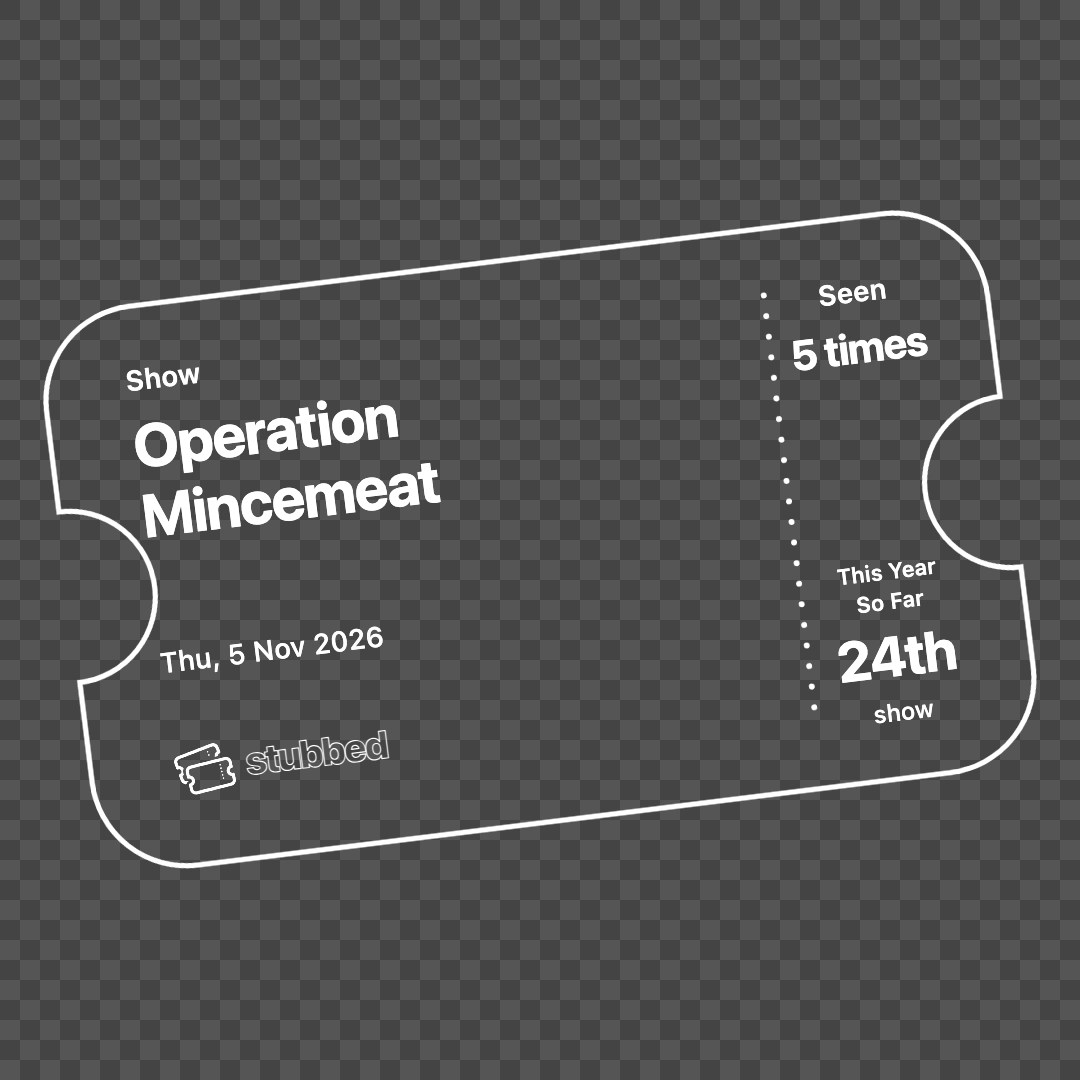
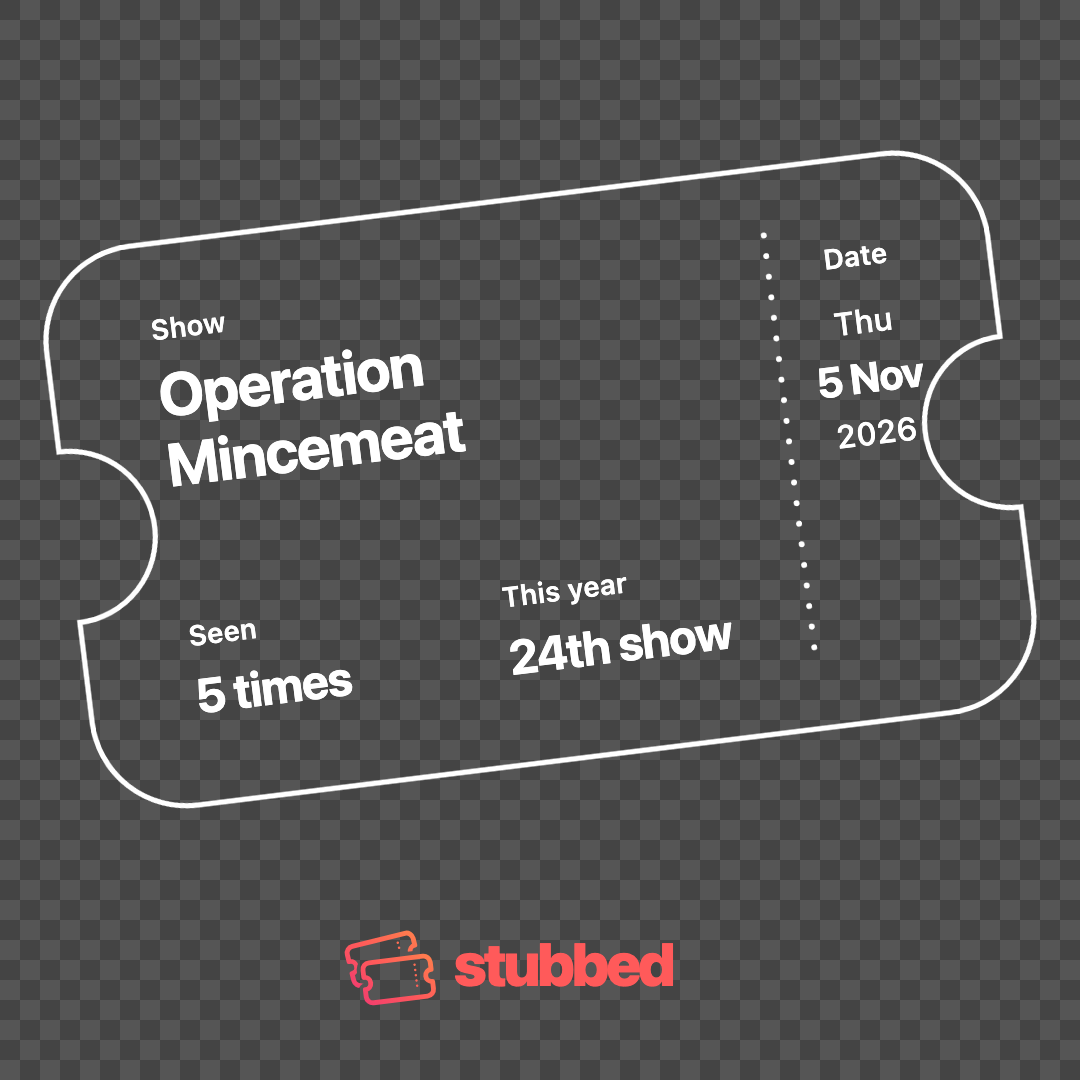
Balance story sections and use design system outline branding

diff --git a/apps/ios/Stubbed/Screens/Share/EntryCard.swift b/apps/ios/Stubbed/Screens/Share/EntryCard.swift
@@ -135,7 +135,7 @@ struct EntryCardView: View {
   }
 }
 
-/// A narrow, centred stack with no personal handle or route graphic.
+/// Four equally sized sections, followed by the design system's outline icon.
 private struct ShowOverlayCard: View {
   let data: EntryCardData
   let ink: Color
@@ -143,28 +143,28 @@ private struct ShowOverlayCard: View {
 
   var body: some View {
     ZStack(alignment: .top) {
-      group("Show", value: data.title, top: 60, title: true)
-      group("Seen", value: "\(data.timesSeen) \(data.timesSeen == 1 ? "time" : "times")", top: 192)
-      group(data.year == Calendar.current.component(.year, from: today) ? "This Year So Far" : "\(data.year) So Far",
-        value: "\(ordinal(data.showOfYear)) show", top: 294)
-      Text(today, format: .dateTime.weekday(.abbreviated).day().month(.abbreviated).year())
-        .font(.system(size: 17, weight: .medium)).padding(.top, 406)
-      OutlineCardLogo(ink: ink).padding(.top, 462)
+      VStack(spacing: 16) {
+        section("Show", value: data.title, title: true)
+        section("Date", value: today.formatted(.dateTime.weekday(.abbreviated).day().month(.abbreviated).year().locale(Locale(identifier: "en_GB"))))
+        section("Seen", value: "\(data.timesSeen) \(data.timesSeen == 1 ? "time" : "times")")
+        section(data.year == Calendar.current.component(.year, from: today) ? "This year" : String(data.year),
+          value: "\(ordinal(data.showOfYear)) show")
+      }.padding(.top, 30)
+      Image("BrandMarkOutline").renderingMode(.original).resizable().scaledToFit()
+        .frame(width: 58, height: 58 * 673 / 816).padding(.top, 470)
     }
     .foregroundStyle(ink)
     .frame(width: 540, height: 540, alignment: .top)
-    .environment(\.locale, Locale(identifier: "en_GB"))
   }
 
-  private func group(_ label: String, value: String, top: CGFloat, title: Bool = false) -> some View {
+  private func section(_ label: String, value: String, title: Bool = false) -> some View {
     VStack(spacing: 6) {
       Text(label).font(.system(size: 17, weight: .semibold))
       Text(value).font(.system(size: 36, weight: .bold)).tracking(-0.5)
         .lineLimit(title ? 2 : 1).minimumScaleFactor(0.72)
         .multilineTextAlignment(.center)
-    }.frame(width: 360).padding(.top, top)
+    }.frame(width: 400, height: 96, alignment: .top)
   }
-
 }
 
 private struct TicketOverlayCard: View {
@@ -173,56 +173,49 @@ private struct TicketOverlayCard: View {
   private let today = Date()
 
   var body: some View {
-    ZStack(alignment: .topLeading) {
-      Image("ShareTicketOutline").renderingMode(.template).resizable()
-        .frame(width: 480, height: 480 * 388 / 648)
-      VStack(alignment: .leading, spacing: 6) {
-        Text("Show").font(.system(size: 14, weight: .semibold))
-        Text(data.title).font(.system(size: 30, weight: .bold)).tracking(-0.4)
-          .lineLimit(2).minimumScaleFactor(0.73)
-          .fixedSize(horizontal: false, vertical: true)
-      }.frame(width: 276, alignment: .leading).offset(x: 44, y: 34)
-      Text(today, format: .dateTime.weekday(.abbreviated).day().month(.abbreviated).year())
-        .font(.system(size: 14, weight: .medium)).offset(x: 44, y: 176)
-      OutlineCardLogo(ink: ink).scaleEffect(0.65, anchor: .topLeading).offset(x: 44, y: 224)
-      VStack(spacing: 6) {
-        Text("Seen").font(.system(size: 14, weight: .semibold))
-        Text("\(data.timesSeen) \(data.timesSeen == 1 ? "time" : "times")")
-          .font(.system(size: 21, weight: .bold)).tracking(-0.3)
-          .lineLimit(1).minimumScaleFactor(0.65)
-      }.frame(width: 82).offset(x: 369, y: 34)
-      VStack(spacing: 3) {
-        Text(data.year == Calendar.current.component(.year, from: today) ? "This Year" : String(data.year))
-        Text("So Far")
-        Text(ordinal(data.showOfYear)).font(.system(size: 28, weight: .bold))
-          .tracking(-0.3).lineLimit(1).minimumScaleFactor(0.65).padding(.top, 8)
-        Text("show").font(.system(size: 12, weight: .medium))
-      }.font(.system(size: 11, weight: .semibold)).frame(width: 82).offset(x: 369, y: 176)
+    ZStack(alignment: .top) {
+      ZStack(alignment: .topLeading) {
+        Image("ShareTicketOutline").renderingMode(.template).resizable()
+          .frame(width: 480, height: 480 * 388 / 648)
+        VStack(alignment: .leading, spacing: 6) {
+          Text("Show").font(.system(size: 14, weight: .semibold))
+          Text(data.title).font(.system(size: 30, weight: .bold)).tracking(-0.4)
+            .lineLimit(2).minimumScaleFactor(0.73)
+            .fixedSize(horizontal: false, vertical: true)
+        }.frame(width: 268, alignment: .leading).offset(x: 56, y: 40)
+        stat("Seen", value: "\(data.timesSeen) \(data.timesSeen == 1 ? "time" : "times")", width: 124)
+          .offset(x: 56, y: 194)
+        stat(data.year == Calendar.current.component(.year, from: today) ? "This year" : String(data.year),
+          value: "\(ordinal(data.showOfYear)) show", width: 112).offset(x: 214, y: 194)
+        VStack(spacing: 10) {
+          Text("Date").font(.system(size: 14, weight: .semibold)).padding(.bottom, 4)
+          Text(today, format: .dateTime.weekday(.abbreviated)).font(.system(size: 16, weight: .medium))
+          Text(today, format: .dateTime.day().month(.abbreviated))
+            .font(.system(size: 21, weight: .bold)).tracking(-0.3).lineLimit(1).minimumScaleFactor(0.65)
+          Text(today, format: .dateTime.year()).font(.system(size: 16, weight: .medium))
+        }.frame(width: 82).offset(x: 369, y: 46)
+      }
+      .foregroundStyle(ink)
+      .frame(width: 480, height: 480 * 388 / 648)
+      .rotationEffect(.degrees(-7))
+      .padding(.top, 96)
+      HStack(spacing: 8) {
+        Image("BrandMarkOutline").renderingMode(.original).resizable().scaledToFit()
+          .frame(width: 48, height: 48 * 673 / 816)
+        Text("stubbed").font(.system(size: 30, weight: .heavy)).tracking(-1.35)
+          .foregroundStyle(CardInk.coral)
+      }.padding(.top, 464)
     }
-    .foregroundStyle(ink)
-    .frame(width: 480, height: 480 * 388 / 648)
-    .rotationEffect(.degrees(-7)) // Same angle as the logo's front ticket.
+    .frame(width: 540, height: 540, alignment: .top)
     .environment(\.locale, Locale(identifier: "en_GB"))
   }
-}
 
-private struct OutlineCardLogo: View {
-  let ink: Color
-  var body: some View {
-    HStack(spacing: 8) {
-      Image("BrandMarkOutline").renderingMode(.template).resizable().scaledToFit()
-        .frame(width: 48, height: 40)
-      Image(uiImage: outlineWordmark).resizable().frame(width: 142, height: 40)
-    }.foregroundStyle(ink)
-  }
-
-  private var outlineWordmark: UIImage {
-    UIGraphicsImageRenderer(size: CGSize(width: 142, height: 40)).image { _ in
-      ("stubbed" as NSString).draw(at: CGPoint(x: 1, y: 2), withAttributes: [
-        .font: UIFont.systemFont(ofSize: 30, weight: .heavy), .kern: -1.35,
-        .strokeColor: UIColor(ink), .strokeWidth: 3,
-      ])
-    }
+  private func stat(_ label: String, value: String, width: CGFloat) -> some View {
+    VStack(alignment: .leading, spacing: 6) {
+      Text(label).font(.system(size: 14, weight: .semibold))
+      Text(value).font(.system(size: 24, weight: .bold)).tracking(-0.3)
+        .lineLimit(1).minimumScaleFactor(0.65)
+    }.frame(width: width, alignment: .leading)
   }
 }
 

diff --git a/apps/web/src/lib/share-card.ts b/apps/web/src/lib/share-card.ts
@@ -258,64 +258,44 @@ export async function renderCard(
 // A compact stack people can place over their own story photo. The year
 // ordinal is the selected visit's position, including for older diary entries.
 function drawShowOverlay(ctx: Ctx, data: CardData, color: string, mark: HTMLImageElement | null) {
-  ctx.fillStyle = color;
-  ctx.textAlign = "center";
-  ctx.textBaseline = "top";
-  const label = (text: string, y: number) => {
-    setFont(ctx, 600, 17, TEXT, 0);
-    ctx.fillText(text, 270, y);
-  };
-  const value = (text: string, y: number) => {
-    setFont(ctx, 700, 36, DISPLAY, -0.5);
-    ctx.fillText(fit(ctx, text, 360), 270, y);
-  };
-  label("Show", 60);
-  let size = 36;
-  let lines: string[] = [];
-  for (; size >= 26; size -= 2) {
-    setFont(ctx, 700, size, DISPLAY, -0.5);
-    lines = wrap(ctx, data.title, 360);
-    if (lines.length <= 2) break;
-  }
-  if (lines.length > 2) lines = [lines[0], lines.slice(1).join(" ")];
-  lines.forEach((line, i) => ctx.fillText(fit(ctx, line, 360), 270, 86 + i * 40));
-  label("Seen", 192);
-  value(`${data.timesSeen} ${data.timesSeen === 1 ? "time" : "times"}`, 218);
   const today = new Date();
-  label(data.year === today.getFullYear() ? "This Year So Far" : `${data.year} So Far`, 294);
-  value(`${ordinal(data.showOfYear)} show`, 320);
-  setFont(ctx, 500, 17, TEXT, 0);
-  ctx.fillText(new Intl.DateTimeFormat("en-GB", { weekday: "short", day: "numeric", month: "short", year: "numeric" }).format(today), 270, 406);
-
-  drawOutlineLogo(ctx, color, mark);
+  const sections = [
+    { label: "Show", value: data.title },
+    { label: "Date", value: shareDate(today) },
+    { label: "Seen", value: `${data.timesSeen} ${data.timesSeen === 1 ? "time" : "times"}` },
+    { label: data.year === today.getFullYear() ? "This year" : String(data.year), value: `${ordinal(data.showOfYear)} show` },
+  ];
+  ctx.fillStyle = color; ctx.textAlign = "center"; ctx.textBaseline = "top";
+  sections.forEach((section, index) => {
+    const top = 30 + index * 112;
+    setFont(ctx, 600, 17, TEXT, 0); ctx.fillText(section.label, 270, top);
+    let lines: string[] = [];
+    for (let size = 36; size >= 26; size -= 2) {
+      setFont(ctx, 700, size, DISPLAY, -0.5);
+      lines = wrap(ctx, section.value, 400);
+      if (lines.length <= (index === 0 ? 2 : 1)) break;
+    }
+    if (lines.length > 2) lines = [lines[0], lines.slice(1).join(" ")];
+    lines.slice(0, index === 0 ? 2 : 1).forEach((line, i) => ctx.fillText(fit(ctx, line, 400), 270, top + 26 + i * 40));
+  });
+  // Use the design system's original gradient Outline mark, with no wordmark.
+  if (mark) ctx.drawImage(mark, 241, 470, 58, 58 * 673 / 816);
 }
 
-function drawOutlineLogo(ctx: Ctx, color: string, mark: HTMLImageElement | null) {
-  // Tint the existing outline asset; source-in keeps its interior transparent.
-  if (mark) {
-    const tint = document.createElement("canvas");
-    tint.width = 160; tint.height = 132;
-    const tintCtx = tint.getContext("2d");
-    if (tintCtx) {
-      tintCtx.drawImage(mark, 0, 0, 160, 132);
-      tintCtx.globalCompositeOperation = "source-in";
-      tintCtx.fillStyle = color;
-      tintCtx.fillRect(0, 0, 160, 132);
-      ctx.drawImage(tint, 171, 462, 48, 40);
-    }
-  }
+function shareDate(date: Date) {
+  return new Intl.DateTimeFormat("en-GB", { weekday: "short", day: "numeric", month: "short", year: "numeric" }).format(date);
+}
+
+function drawTicketBrand(ctx: Ctx, mark: HTMLImageElement | null) {
+  if (mark) ctx.drawImage(mark, 171, 464, 48, 48 * 673 / 816);
   setFont(ctx, 800, 30, DISPLAY, -1.35);
-  ctx.textAlign = "left";
-  ctx.textBaseline = "middle";
-  ctx.strokeStyle = color;
-  ctx.lineWidth = 0.9;
-  ctx.lineJoin = "round";
-  ctx.strokeText("stubbed", 227, 482);
+  ctx.textAlign = "left"; ctx.textBaseline = "middle";
+  ctx.fillStyle = CORAL; ctx.fillText("stubbed", 227, 484);
 }
 
 function drawTicketOverlay(ctx: Ctx, data: CardData, color: string, ticket: HTMLImageElement | null, mark: HTMLImageElement | null) {
   ctx.save();
-  ctx.translate(270, 270);
+  ctx.translate(270, 240);
   ctx.rotate(-7 * Math.PI / 180); // The front ticket's angle in the Stubbed logo.
   ctx.translate(-240, -144);
   if (ticket) {
@@ -330,31 +310,31 @@ function drawTicketOverlay(ctx: Ctx, data: CardData, color: string, ticket: HTML
     }
   }
   ctx.fillStyle = color; ctx.textAlign = "left"; ctx.textBaseline = "top";
-  setFont(ctx, 600, 14, TEXT, 0); ctx.fillText("Show", 44, 34);
+  setFont(ctx, 600, 14, TEXT, 0); ctx.fillText("Show", 56, 40);
   let lines: string[] = [];
   for (let size = 30; size >= 22; size -= 2) {
     setFont(ctx, 700, size, DISPLAY, -0.4);
-    lines = wrap(ctx, data.title, 276);
+    lines = wrap(ctx, data.title, 268);
     if (lines.length <= 2) break;
   }
   if (lines.length > 2) lines = [lines[0], lines.slice(1).join(" ")];
-  lines.forEach((line, i) => ctx.fillText(fit(ctx, line, 276), 44, 60 + i * 35));
+  lines.forEach((line, i) => ctx.fillText(fit(ctx, line, 268), 56, 66 + i * 35));
   const today = new Date();
-  setFont(ctx, 500, 14, TEXT, 0);
-  ctx.fillText(new Intl.DateTimeFormat("en-GB", { weekday: "short", day: "numeric", month: "short", year: "numeric" }).format(today), 44, 176);
-  ctx.save(); ctx.translate(44, 224); ctx.scale(0.65, 0.65); ctx.translate(-171, -462);
-  drawOutlineLogo(ctx, color, mark); ctx.restore();
-  ctx.fillStyle = color; ctx.textAlign = "center"; ctx.textBaseline = "top";
-  setFont(ctx, 600, 14, TEXT, 0); ctx.fillText("Seen", 410, 34);
+  setFont(ctx, 600, 14, TEXT, 0);
+  ctx.fillText("Seen", 56, 194);
+  ctx.fillText(data.year === today.getFullYear() ? "This year" : String(data.year), 214, 194);
+  setFont(ctx, 700, 24, DISPLAY, -0.3);
+  ctx.fillText(`${data.timesSeen} ${data.timesSeen === 1 ? "time" : "times"}`, 56, 220, 124);
+  ctx.fillText(`${ordinal(data.showOfYear)} show`, 214, 220, 112);
+  ctx.textAlign = "center";
+  setFont(ctx, 600, 14, TEXT, 0); ctx.fillText("Date", 410, 46);
+  setFont(ctx, 500, 16, TEXT, 0);
+  ctx.fillText(new Intl.DateTimeFormat("en-GB", { weekday: "short" }).format(today), 410, 78);
   setFont(ctx, 700, 21, DISPLAY, -0.3);
-  ctx.fillText(`${data.timesSeen} ${data.timesSeen === 1 ? "time" : "times"}`, 410, 59, 82);
-  setFont(ctx, 600, 11, TEXT, 0);
-  ctx.fillText(data.year === today.getFullYear() ? "This Year" : String(data.year), 410, 176);
-  ctx.fillText("So Far", 410, 191);
-  setFont(ctx, 700, 28, DISPLAY, -0.3);
-  ctx.fillText(ordinal(data.showOfYear), 410, 211, 82);
-  setFont(ctx, 500, 12, TEXT, 0); ctx.fillText("show", 410, 246);
+  ctx.fillText(new Intl.DateTimeFormat("en-GB", { day: "numeric", month: "short" }).format(today), 410, 104, 82);
+  setFont(ctx, 500, 16, TEXT, 0); ctx.fillText(String(today.getFullYear()), 410, 134);
   ctx.restore();
+  drawTicketBrand(ctx, mark);
 }
 
 // --- helpers ---------------------------------------------------------------

diff --git a/docs/DECISIONS.md b/docs/DECISIONS.md
@@ -1024,3 +1024,5 @@ Owner couldn't edit all of two landing captions (the editor showed only half of 
 - Uses the existing entry-card stats; older entries name their recorded year rather than calling it “This Year”. Exports remain 1080×1080 PNGs, matching the sharing pipeline.
 
 - Added a Ticket stub variant with the same information: show title in the main ticket, counts in the perforated stub, and today’s date and outlined logo in the main ticket’s footer. The outline is generated from the logo’s exact single-ticket geometry and keeps its front ticket’s −7° angle; it shares the transparent overlay appearance options.
+
+- Refined the plain overlay to four equally spaced sections in this order: Show, Date, Seen, This year, with matching type sizes. It uses only the design system’s gradient Outline mark. The ticket layout places show and counts in the main area and date in the stub; branding moves outside below it, with the original Outline mark and a coral wordmark.
